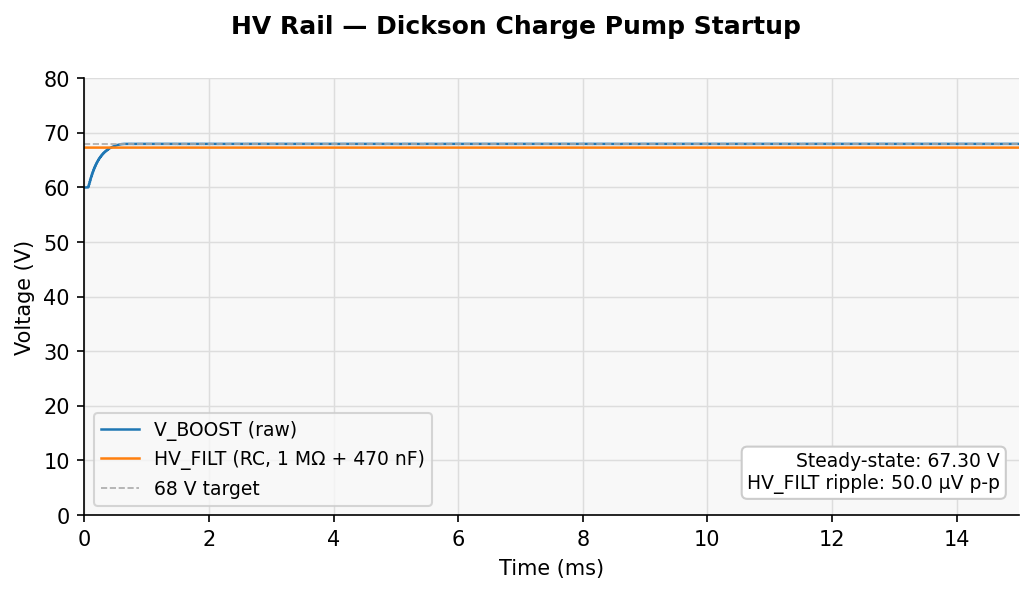
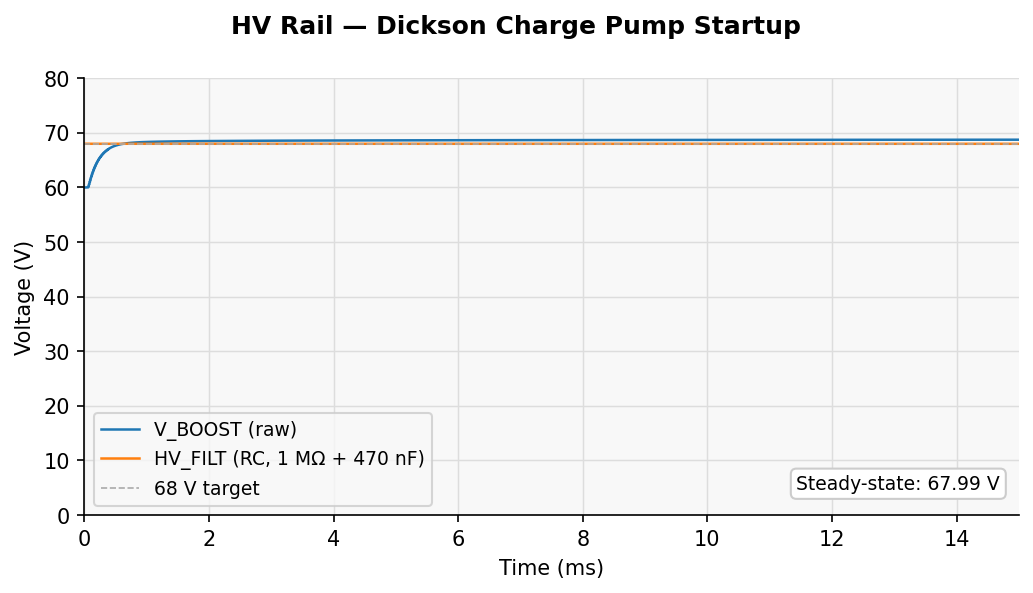
sim, docs: the 75 V DZ1 in boost_dickson.sp; V_HV_nom instead of V_HV_clamp
boost_dickson.sp still clamped VBOOST with the 68 V model. With the 75 V
MMSZ5267B (#121) DZ1 does not conduct at the nominal point and VBOOST settles
at 68.67 V instead of 67.97 V (limits 63 to 73 V unchanged).

Without the clamp VBOOST is still creeping up at 15 ms, so ripple is now
measured over the last two clock periods with the slope taken out. The HV_FILT
ripple reads 0 there; the README no longer quotes a simulated figure for it
and the plot no longer prints one.

V_HV_clamp (68) was used only as the polarisation source in amp_dc_offset.sp,
whose results do not depend on it. Renamed V_HV_nom. Comments in gen_params.py
name the parts fitted now (MMSZ4702, MMSZ5267B).

README: V_BOOST 68.67 V, HV_FILT 67.99 V, polarisation about 56 V.

Claude-Session: https://claude.ai/code/session_01JJVE6iPs7mqtayJNH2CABt

Changed region(s): [[0.0929, 0.2125, 0.9913, 0.2732], [0.7125, 0.7285, 0.9913, 0.8499]]

diff --git a/pcb/gen_params.py b/pcb/gen_params.py
@@ -40,8 +40,8 @@ PARAMS = {
     "R_ZEN1":       "6.8k",   # V_OPA → V_OSC dropper
     # ── Supply voltages ───────────────────────────────────────────────────
     "V_OPA":        "24",     # regulated supply (Z_REG1 = 24V BZT52C24)
-    "V_OSC":        "15",     # oscillator rail (Z_OSC1 = 15V MMSZ15VT1G)
-    "V_HV_clamp":   "68",     # HV boost clamp (DZ1 = 68V BZX55C68)
+    "V_OSC":        "15",     # oscillator rail (Z_OSC1 = 15V MMSZ4702T1G, #121)
+    "V_HV_nom":     "68",     # VBOOST at the nominal point, about 68 V (pump_real_vosc.sp gives 68.7 V); DZ1 (75 V) does not conduct there
     "V_MID":        "12",     # V_OPA/2 midpoint (R4/R5 divider)
     # ── OPA1641 behavioral model (from datasheet) ─────────────────────────
     "OPA_OL_GAIN":  "100k",   # open-loop gain (100 dB)

diff --git a/sim/plot_all.py b/sim/plot_all.py
@@ -139,9 +139,6 @@ def plot_hv_startup():
     hvfilt = d[:, 3]
 
     hv_avg    = measures.get("hv_avg_rc", hvfilt.mean())
-    hv_max    = measures.get("hv_max_rc", float("nan"))
-    hv_min    = measures.get("hv_min_rc", float("nan"))
-    hv_ripple = hv_max - hv_min
 
     fig, ax = plt.subplots(figsize=(7, 4))
     fig.suptitle("HV Rail — Dickson Charge Pump Startup", fontsize=12, fontweight="bold")
@@ -155,7 +152,8 @@ def plot_hv_startup():
     ax.set_xlim(0, 15)
     ax.set_ylim(0, 80)
 
-    annotation = f"Steady-state: {hv_avg:.2f} V\nHV_FILT ripple: {hv_ripple*1e6:.1f} µV p-p"
+    # the ripple after the RC filter (about 47 nV by calculation) is below what the transient run resolves
+    annotation = f"Steady-state: {hv_avg:.2f} V"
     ax.text(0.98, 0.05, annotation, transform=ax.transAxes,
             ha="right", va="bottom", fontsize=9,
             bbox=dict(boxstyle="round,pad=0.3", fc="white", ec="#cccccc"))

diff --git a/README.md b/README.md
@@ -26,17 +26,17 @@ Run with ngspice from `sim/` (see [Running Simulations](#running-simulations)):
 
 | Parameter | Simulated | Notes |
 |---|---|---|
-| V_BOOST steady-state | 67.97 V | target 68.2 V, DZ1-clamped |
-| HV_FILT DC | 67.30 V | Sim models a 100 MΩ load to GND, giving a 0.67 V drop across R_HV. The real circuit has no DC load on HV_FILT (R_GBIAS1 feeds the capsule and C8), so it settles at V_BOOST, about 0.7 V higher. Small next to DZ1's ±5% tolerance |
-| HV_FILT ripple | ~47 nV p-p calc | RC at 100 kHz: −109 dB; LC ref sim: 10 µV p-p |
+| V_BOOST steady-state | 68.67 V | ideal 24 V and 15 V supplies; DZ1 (75 V) does not conduct. With the real `V_OSC` supply: 65.0 / 68.7 / 71.3 V at the low / nominal / high corners (`pump_real_vosc.sp`) |
+| HV_FILT DC | 67.99 V | Sim models a 100 MΩ load to GND, giving a 0.68 V drop across R_HV. The real circuit has no DC load on HV_FILT (R_GBIAS1 feeds the capsule and C8), so it settles at V_BOOST, about 0.7 V higher. Small next to the spread of V_BOOST |
+| HV_FILT ripple | ~47 nV p-p calc | RC at 100 kHz: −109 dB. The transient run cannot resolve it (HV_FILT ripple reads 0 once the slow rise of V_BOOST is taken out) |
 | RC filter corner | ~0.34 Hz | R_HV=1 MΩ × C9=470 nF; no LC resonance |
-| Capsule polarization | ~55 V | HV_FILT (67.3 V) − V_MID (12 V) at steady state |
+| Capsule polarization | ~56 V | HV_FILT (68.0 V) − V_MID (12 V) at steady state |
 
 ### HV Rail Startup (`boost_dickson.sp`)
 
 ![HV startup](img/hv_startup.png)
 
-Charge pump settles to ~68 V within ~1 ms. HV_FILT is RC-filtered (1 MΩ + 470 nF); steady-state 67.3 V (0.67 V drop across R_HV), theoretical ripple ~47 nV p-p at 100 kHz (−109 dB). The simulation also runs an LC filter reference for ripple comparison (earlier board revisions used an LC filter before switching to the simpler RC approach); LC results are printed to the terminal but not plotted.
+Charge pump settles to ~68 V within ~1 ms. HV_FILT is RC-filtered (1 MΩ + 470 nF); steady-state 68.0 V (0.68 V drop across R_HV), theoretical ripple ~47 nV p-p at 100 kHz (−109 dB). The simulation also runs an LC filter reference for ripple comparison (earlier board revisions used an LC filter before switching to the simpler RC approach); LC results are printed to the terminal but not plotted.
 
 ### AC Frequency Response (`amp_ac.sp`)
 
@@ -101,7 +101,7 @@ The figures above are simulated. [docs/measurement.md](docs/measurement.md) desc
 ### Customer-supplied (not in PCBA BOM)
 | Item | Spec | Notes |
 |---|---|---|
-| Capsule | Single-diaphragm condenser | Design delivers ~55 V polarization (HV_FILT ≈ 67.3 V − V_MID 12 V). Compatible with most standard large/small-diaphragm capsules; K47-type capsules (typically rated 40–60 V) are compatible at this voltage. |
+| Capsule | Single-diaphragm condenser | Design delivers ~56 V polarization (HV_FILT ≈ 68.0 V − V_MID 12 V). Compatible with most standard large/small-diaphragm capsules; K47-type capsules (typically rated 40–60 V) are compatible at this voltage. |
 | Transformer | **Neutrik NTE10/3** (3:1, audio) | Mouser / Newark. No other transformer is currently supported; the PCB cutout and solder pads are sized for this specific part. |
 
 ### Transformer wiring
@@ -139,7 +139,7 @@ Pad numbers run left to right as viewed from the **front** (component side). The
 
 ### Safety note — HV rail (IEC 62368-1)
 
-The internal HV rail (VBOOST ≈ 68 V DC, HV\_FILT ≈ 67.3 V DC) is generated from 48 V phantom power by the Dickson charge pump and is entirely enclosed inside the microphone housing. It is **not connected to any externally accessible connector pin, contact, or exposed surface** under normal or single-fault conditions.
+The internal HV rail (VBOOST ≈ 68 V DC, HV\_FILT ≈ 68.0 V DC; at most 75 V +5%, where DZ1 clamps) is generated from 48 V phantom power by the Dickson charge pump and is entirely enclosed inside the microphone housing. It is **not connected to any externally accessible connector pin, contact, or exposed surface** under normal or single-fault conditions.
 
 Under IEC 62368-1, a DC source in the 60–120 V range is classified as **ES2**. ES2 is permissible in a product provided that the source is not accessible to the user during normal operation; the sealed housing satisfies this requirement. The XLR output pins carry only the transformer-coupled signal and phantom supply (≤ 48 V, ES1), not the HV rail.
 
